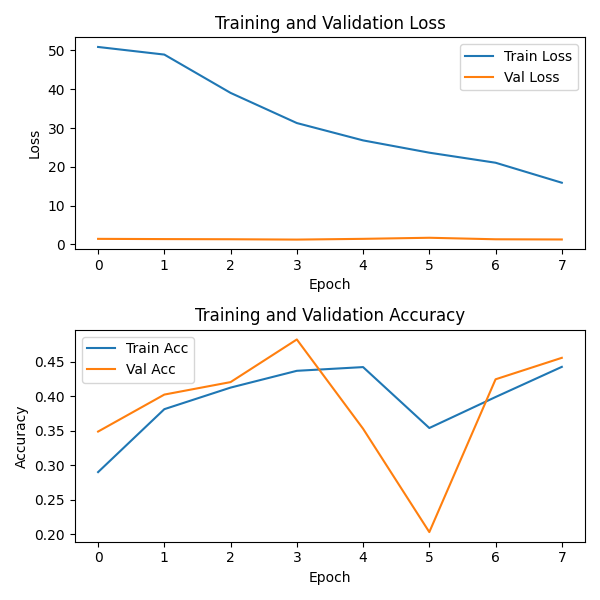
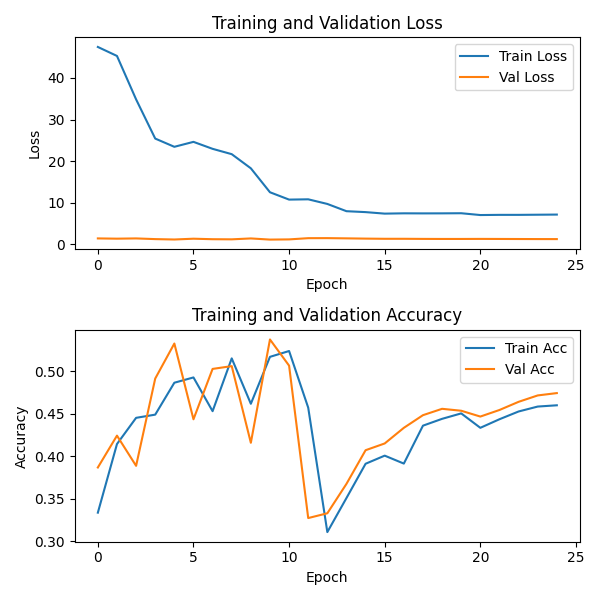
Removed early stopping

diff --git a/src/train.py b/src/train.py
@@ -161,7 +161,7 @@ def train(
     do_train: bool = True,
     val_ratio: float = 0.1,
     num_epochs: int = 25,
-    early_stopping_patience: int = 4,
+    early_stopping_patience: int = 0,
     num_transformers: int = 3,
     embbed_dim: int = 64,
     num_heads: int = 2,
@@ -261,4 +261,9 @@ def train(
 
 
 if __name__ == "__main__":
-    train(num_particles=150, num_feats=16)
+    train(
+        num_particles=150, 
+        num_feats=16,
+        num_epochs=25,
+        early_stopping_patience=0  # Disables early stopping
+    )